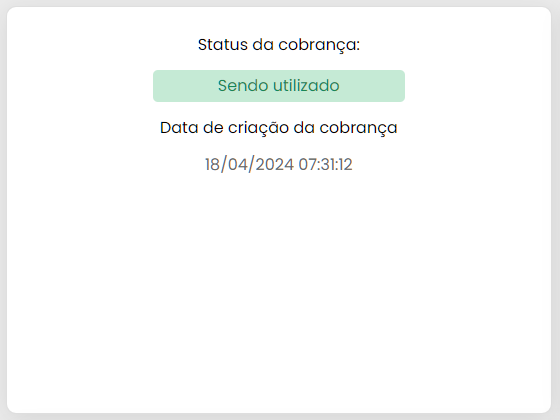
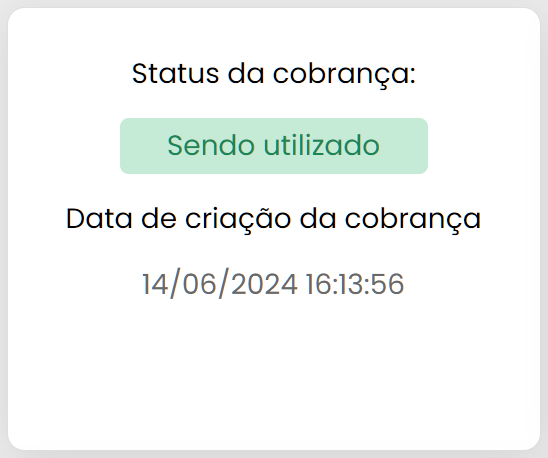
Atualização novas imagens, com mais qualidade

Changed region(s): [[0.1241, 0.0929, 0.8996, 0.5262], [0.2482, 0.5881, 0.7445, 0.65], [0.0, 0.9595, 0.031, 0.9905]]

diff --git a/CRIAR_COBRANCA/README.md b/CRIAR_COBRANCA/README.md
@@ -6,20 +6,17 @@ Deixamos facilitado o acesso a criação de uma cobrança, já no momento que vo
 
 De início você tem a configuração da cobrança, onde pode identificar o tipo de cobrança que será gerada, valor, e escolher um dos tipos disponíveis, sendo eles:
 
-## [- **Avulsa**](https://docs.gopag.com.br/criar_cobranca/link_cobranca)
+## [**Avulsa**](https://docs.gopag.com.br/criar_cobranca/link_cobranca)
 
 Quando falamos de cobrança do tipo avulsa nos referimos a um pagamento único ou pontual que é feito por um produto ou serviço específico, sem a necessidade de um compromisso contínuo. Como exemplo a compra de um item em uma loja online e pagar por ele uma única vez.
 
 
-## [- **Modelo**](https://docs.gopag.com.br/criar_cobranca/link_cobranca/link_cobranca_modelo)
+## [**Modelo**](https://docs.gopag.com.br/criar_cobranca/link_cobranca/link_cobranca_modelo)
 
 
 A cobrança modelo ao ser gerada, cria um link único que pode ser utilizado diversas vezes para pagamento de um valor fixo, e para cada transação nesse único link você terá a informação completa de quem efetuou o pagamento, tudo isso e muito mais na nossa  plataforma da GOPag.
 
 
-<!-- # [- **Recorrente**](https://docs.gopag.com.br/criar_cobranca/link_cobranca/link_cobranca_recorrente)
+<!-- # [**Recorrente**](https://docs.gopag.com.br/criar_cobranca/link_cobranca/link_cobranca_recorrente)
 
 <p>O pagamento recorrente é um método de cobrança periódica, feita com recorrência mensal, quinzenal ou anual enquanto o contrato de serviço durar. Entre os serviços que utilizam o sistema de pagamento recorrente, podemos falar de cursos, contabilidade, mensalidade escolar, honorários, editoras e empresas de telecomunicações.</p> -->
-
-
-![](../assets/prints/criar_cobranca.gif)

diff --git a/CRIAR_COBRANCA/LINK_COBRANCA/LINK_COBRANCA_MODELO/README.md b/CRIAR_COBRANCA/LINK_COBRANCA/LINK_COBRANCA_MODELO/README.md
@@ -29,15 +29,14 @@ De início você verá um menu no canto direito da tela, com algumas funções i
 
 No primeiro card existe duas partes para visualização, sendo elas:
 
-- Status do pagamento (Novo, sendo utilizado, pendente ou falha);
+- Status do pagamento (Sendo utilizado, novo ou cancelado);
 - Data da criação da cobrança;
 
 <!-- ![criar_cobranca_card_1](/assets/prints/criar_cobranca_card_1.gif) -->
 
-![](/assets/prints/status_pgto_modelo_novo.png)
 ![](/assets/prints/status_pgto_modelo_sendo_utilizado.png)
-![](/assets/prints/status_pgto_modelo_pendente.png)
-![](/assets/prints/status_pgto_modelo_falha.png)
+![](/assets/prints/status_pgto_modelo_novo.png)
+![](/assets/prints/status_pgto_modelo_cancelado.png)
 
 
 Já com o segundo card, estão as formas de pagamentos disponíveis (Aparecendo somente às selecionadas no momento da geraçāo da cobrança)

diff --git a/CRIAR_COBRANCA/LINK_COBRANCA/LINK_COBRANCA_AVULSA/README.md b/CRIAR_COBRANCA/LINK_COBRANCA/LINK_COBRANCA_AVULSA/README.md
@@ -51,7 +51,7 @@ Os dados do pagador podem ser preenchidos por você no ato da cobrança, ou caso
 No quinto quadro vemos:
 
 - Endereço do cliente (Lembrando que o próprio cliente pode fazer o preenchimento quando for pagar 😉);
-- Configurações da cobrança (Caso tenha definido parcelas para o caso do cartão de crédito e a [taxa de transação](https://docs.gopag.com.br/simular_venda) se definiu para o cliente pagar).
+- Configurações da cobrança (Caso tenha definido parcelas para o caso do cartão de crédito e a [taxa de transação](https://docs.gopag.com.br/simular_venda) e adicional).
 
 ![](/assets/prints/criar_cobranca_card_5.png)
 
